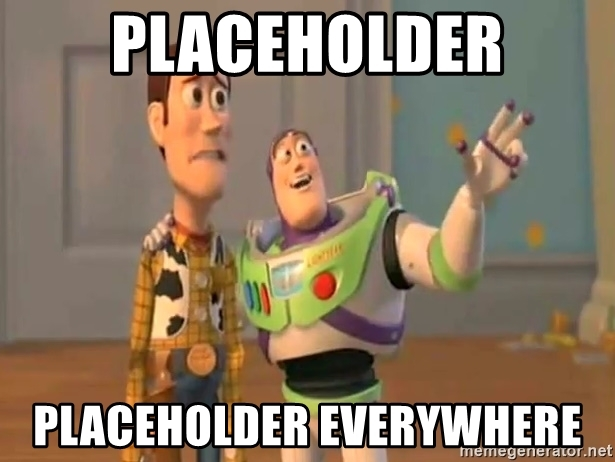
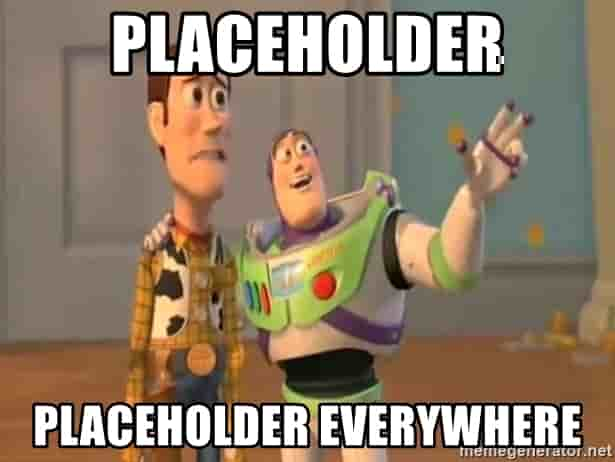
Add url validator, compress placeholder image, remove visibility-sensor

diff --git a/frontend/src/App.js b/frontend/src/App.js
@@ -1,4 +1,5 @@
 import React, { useState, useEffect } from 'react';
+import validator from 'validator';
 import memeService from './services/memes';
 import Form from './components/Form';
 import Deck from './components/Deck';
@@ -12,6 +13,7 @@ const App = () => {
   const [newUrl, setNewUrl] = useState('');
   const [errorMessage, setErrorMessage] = useState('');
   const [successMessage, setSuccessMessage] = useState('');
+  const [validUrl, setValidUrl] = useState(true);
 
   const handleNameChange = (event) => {
     setNewName(event.target.value);
@@ -23,10 +25,12 @@ const App = () => {
 
   const handleUrlChange = (event) => {
     setNewUrl(event.target.value);
+    setValidUrl(validator.isURL(event.target.value));
   };
 
   const addMeme = (event) => {
     event.preventDefault();
+    if (!validUrl) return;
     const memeObject = {
       name: newName,
       caption: newCaption,
@@ -38,6 +42,9 @@ const App = () => {
         setTimeout(() => {
           setSuccessMessage('');
         }, 2000);
+        setNewName('');
+        setNewUrl('');
+        setNewCaption('');
       })
       .catch((e) => {
         setErrorMessage(e.response.data.error);
@@ -45,9 +52,6 @@ const App = () => {
           setErrorMessage('');
         }, 2000);
       });
-    setNewName('');
-    setNewUrl('');
-    setNewCaption('');
   };
 
   useEffect(() => {
@@ -88,6 +92,7 @@ const App = () => {
             handleCaptionChange={handleCaptionChange}
             handleNewUrl={newUrl}
             handleUrlChange={handleUrlChange}
+            validUrl={validUrl}
           />
         </div>
       </section>

diff --git a/frontend/src/components/Form.js b/frontend/src/components/Form.js
@@ -11,6 +11,7 @@ const Form = (props) => {
     handleCaptionChange,
     handleNewUrl,
     handleUrlChange,
+    validUrl,
   } = props;
   return (
     <form onSubmit={handleOnSubmit}>
@@ -56,6 +57,16 @@ const Form = (props) => {
           <button className="button is-link" type="submit">Submit Meme</button>
         </div>
       </div>
+
+      <p
+        className="help is-danger"
+        style={{
+          visibility: validUrl ? 'hidden' : 'visible',
+        }}
+      >
+        This URL is invalid
+      </p>
+
     </form>
 
   );
@@ -63,17 +74,13 @@ const Form = (props) => {
 
 Form.propTypes = {
   handleOnSubmit: PropTypes.func.isRequired,
-  handleNewName: PropTypes.string,
+  handleNewName: PropTypes.string.isRequired,
   handleNameChange: PropTypes.func.isRequired,
-  handleNewCaption: PropTypes.string,
+  handleNewCaption: PropTypes.string.isRequired,
   handleCaptionChange: PropTypes.func.isRequired,
-  handleNewUrl: PropTypes.string,
+  handleNewUrl: PropTypes.string.isRequired,
   handleUrlChange: PropTypes.func.isRequired,
-};
-Form.defaultProps = {
-  handleNewName: '',
-  handleNewCaption: '',
-  handleNewUrl: '',
+  validUrl: PropTypes.bool.isRequired,
 };
 
 export default Form;

diff --git a/frontend/src/components/Notification.js b/frontend/src/components/Notification.js
@@ -6,25 +6,33 @@ const Notification = ({ errorMessage, successMessage }) => {
     return null;
   } if (errorMessage === '') {
     return (
-      <div className="notification is-success is-pulled-right">
+      <div
+        className="notification is-success"
+        style={{
+          position: 'absolute',
+          right: 0,
+        }}
+      >
         {successMessage}
       </div>
     );
   }
   return (
-    <div className="notification is-danger is-pulled-right">
+    <div
+      className="notification is-danger"
+      style={{
+        position: 'absolute',
+        right: 0,
+      }}
+    >
       {errorMessage}
     </div>
   );
 };
 
 Notification.propTypes = {
-  errorMessage: PropTypes.string,
-  successMessage: PropTypes.string,
-};
-Notification.defaultProps = {
-  errorMessage: '',
-  successMessage: '',
+  errorMessage: PropTypes.string.isRequired,
+  successMessage: PropTypes.string.isRequired,
 };
 
 export default Notification;

diff --git a/frontend/src/components/Card.js b/frontend/src/components/Card.js
@@ -15,9 +15,7 @@ const Card = (props) => {
       <div className="card">
         <div className="card-image">
           <figure className="image is-4by3">
-
             <Img src={[url, `${process.env.PUBLIC_URL}/placeholder-placeholder-everywhere.jpg`]} alt={caption} loading="lazy" />
-
           </figure>
         </div>
         <div className="card-content">
@@ -34,14 +32,10 @@ const Card = (props) => {
 };
 
 Card.propTypes = {
-  name: PropTypes.string,
-  caption: PropTypes.string,
-  url: PropTypes.string,
+  name: PropTypes.string.isRequired,
+  caption: PropTypes.string.isRequired,
+  url: PropTypes.string.isRequired,
   handleEditClick: PropTypes.func.isRequired,
 };
-Card.defaultProps = {
-  name: '',
-  caption: '',
-  url: '',
-};
+
 export default Card;

diff --git a/frontend/src/components/Deck.js b/frontend/src/components/Deck.js
@@ -1,20 +1,18 @@
 /* eslint-disable jsx-a11y/label-has-associated-control */
 import React from 'react';
 import PropTypes from 'prop-types';
-import VisibilitySensor from 'react-visibility-sensor';
 import Card from './Card';
 
 const Deck = ({ memesToShow, handleEditClick }) => (
   <div className="columns is-multiline">
     {memesToShow.map((meme) => (
-      <VisibilitySensor key={meme.id}>
-        <Card
-          name={meme.name}
-          caption={meme.caption}
-          url={meme.url}
-          handleEditClick={handleEditClick}
-        />
-      </VisibilitySensor>
+      <Card
+        name={meme.name}
+        caption={meme.caption}
+        url={meme.url}
+        handleEditClick={handleEditClick}
+        key={meme.id}
+      />
     ))}
   </div>
 

diff --git a/backend/controllers/memes.js b/backend/controllers/memes.js
@@ -19,7 +19,7 @@ memesRouter.post('/', async (request, response) => {
           VALUES ($1, $2, $3, $4, $5) RETURNING id`,
     [body.name, body.url, body.caption, new Date(), new Date()],
   );
-  response.status(201).json(result.rows[0]);
+  return response.status(201).json(result.rows[0]);
 });
 
 memesRouter.get('/', async (request, response) => {

diff --git a/frontend/src/App.scss b/frontend/src/App.scss
@@ -55,7 +55,6 @@ $input-shadow: none;
 @import "../node_modules/bulma/sass/grid/columns.sass";
 
 // @import "../node_modules/bulma/sass/helpers/_all";
-@import "../node_modules/bulma/sass/helpers/float.sass";
 @import "../node_modules/bulma/sass/helpers/typography.sass";
 
 // @import "../node_modules/bulma/sass/layout/_all";
